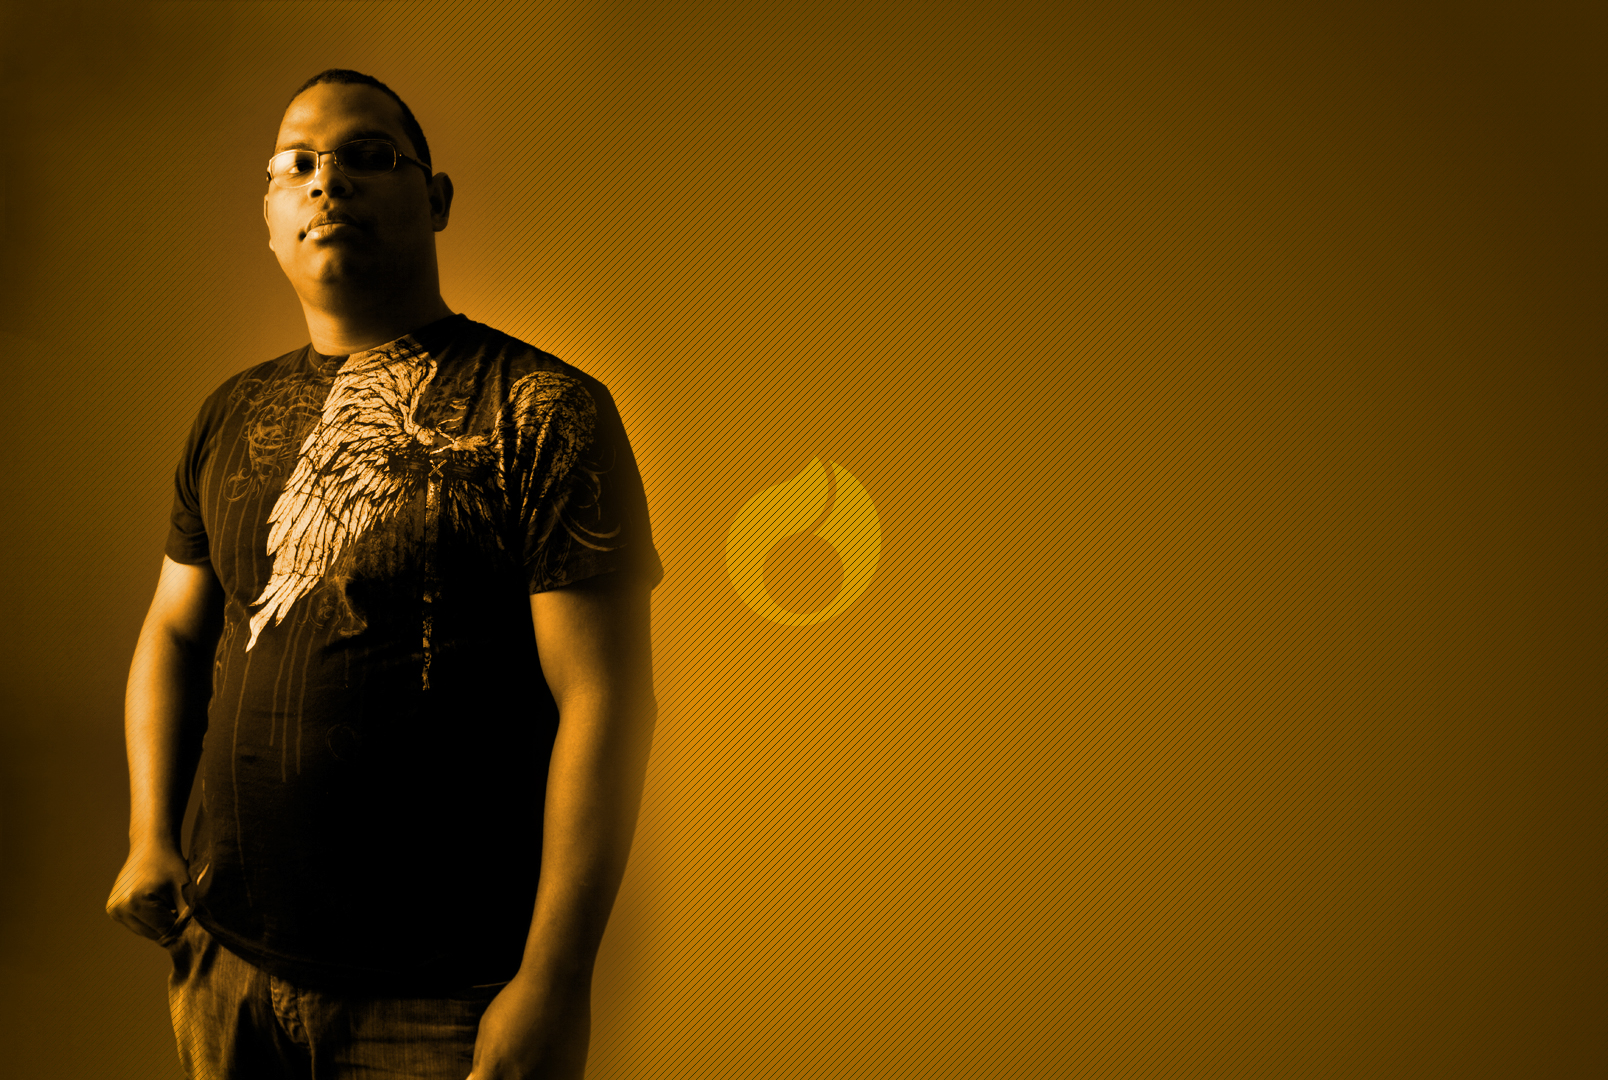
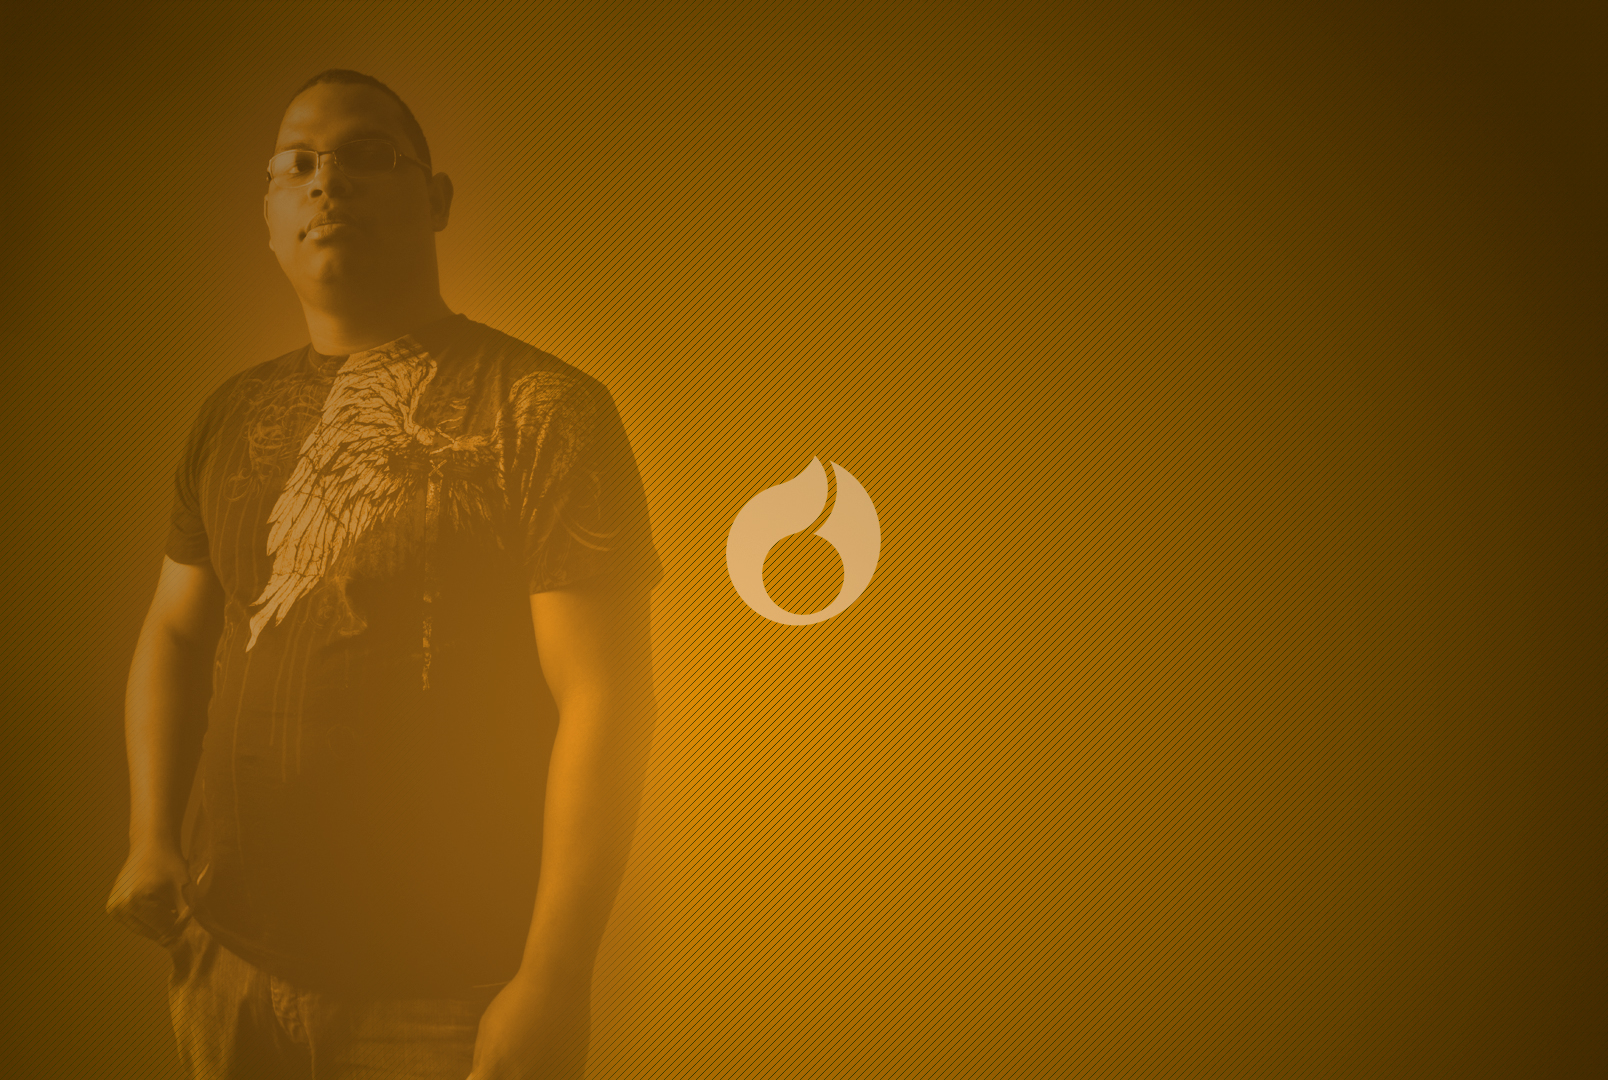
Ajustando CSS do slider final da pagina

Changed region(s): [[0.0, 0.0611, 0.5597, 1.0], [0.2488, 0.0, 0.2799, 0.0306]]

diff --git a/css/style.css b/css/style.css
@@ -937,15 +937,15 @@ a.totop-link {
     line-height: 100px;
 }
 .introduction-end-con h3 strong {
-    border-top: 1px solid #747474;
-    border-bottom: 1px solid #747474;
+    border-top: 1px solid #fff;
+    border-bottom: 1px solid #fff;
     padding: 10px 0;
-    color: #ff9900;
+    color: #fff;
     font-weight: normal;
 }
 .introduction-end-con .rotate {
     font-weight: 300;
-    color: #FFFFFF;
+    color: #ffffff;
     font-size: 55px;
     text-transform: uppercase;
     font-family: 'Oswald', sans-serif;
